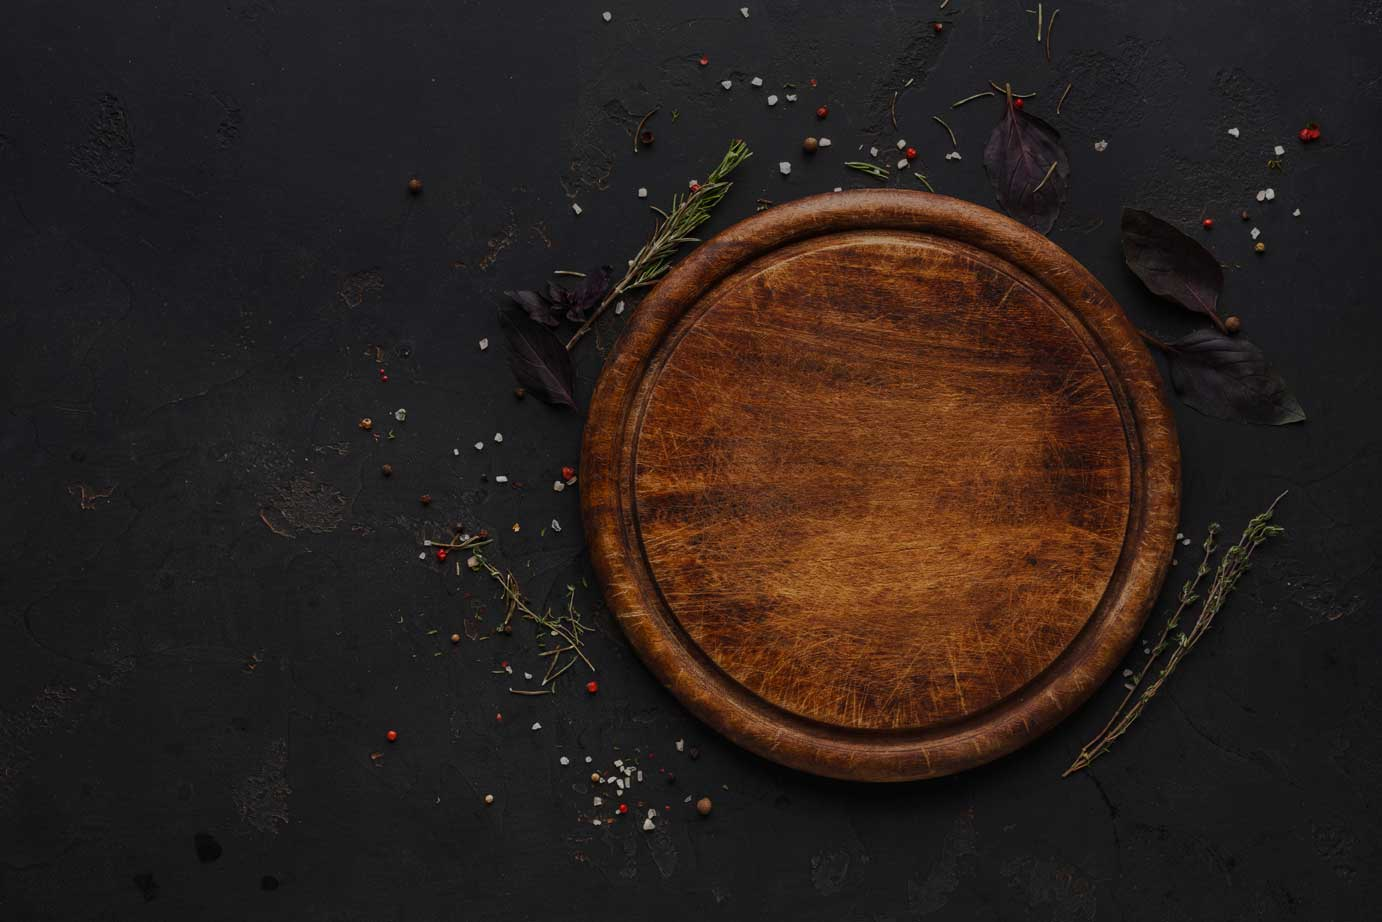
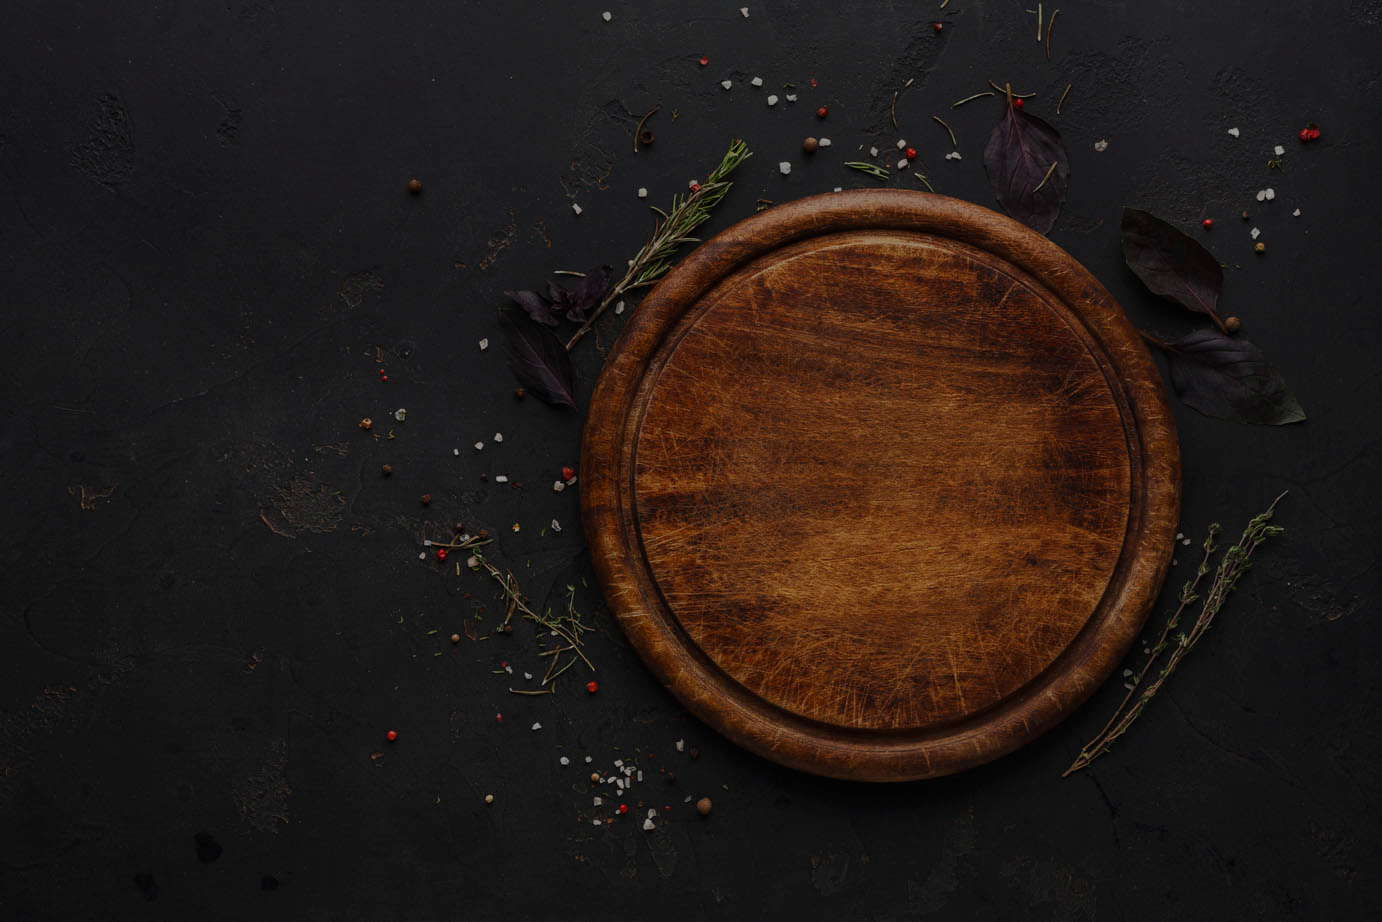
cambio fondos

diff --git a/asset/css/style.css b/asset/css/style.css
@@ -9,7 +9,7 @@ body{
     background-color: rgb(11, 20, 0);
     font-family: 'Lato', sans-serif;
     font-size: 18px;
-    background-image: url(../img/2back790682821.jpg);
+    background-image: url(../img/4back790682821.jpg);
     background-position: center;
     background-repeat: no-repeat;
     background-attachment: fixed;
